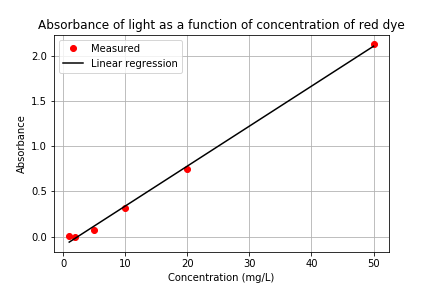
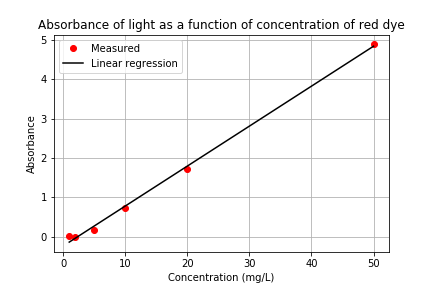
are we done?

diff --git a/Lab1_postlab_group1.md b/Lab1_postlab_group1.md
@@ -1,25 +1,29 @@
 ## Laboratory Measurements and Procedures
 
 1. Fill out the attached spreadsheet. Make sure that all calculated values are entered in the spreadsheet as equations. All remaining analysis for the course will be done in Atom using Python!
+**The spreadsheet is attached in the email.**
 2. Create a graph of absorbance vs. concentration of red dye 40 in Atom/Markdown using the exported data file. Does absorbance increase linearly with concentration of the red dye? Remove data points from the graph that are outside of the linear region.
-
-We removed the data from the high and low concentrations because they were at the limit of the instrument, meaning that the data was
-
+**We removed the data from the very high and low concentrations because they were at the limit of the instrument, meaning that the data was not linear.**
+![absorbanceplot](https://github.com/rosiekrasnoff/CEE4530/blob/master/Lab1_plot.png?raw=true)
+Figure 1: Plot showing absorbance vs concentration of red dye #40 for standards. Data shows the expected linear relationship.
 3. What is the value of the extinction coefficient, ε?
+**ε = 157.58 (at concentration = 10 mg/L and absorbance = 0.732745). The values of ε change for each different concentration and absorbance, the value of ε at 10 mg/L is a fairly good representation of all the values because it is close to the average.**
 4. Did you use interpolation or extrapolation to get the concentration of the unknown?
+**We used interpolation to get the concentration of the unknown because the 14 mg/L was within our data.**
 5. What measurement controls the accuracy of the density measurement for the NaCl solution?
+**Step 1 of the Measuring Density section where we weigh a volumetric flask with 100 mL of the NaCl solution controls the accuracy of the density measurement because a volumetric flask is the least accurate.**
 6. What density did you expect (see prelab 2)?
+**We expected a density of 55.4428 g/L.**
 7. Approximately what should the accuracy be for the density measurement?
+**The accuracy for the density measurement is that of a volumetric flask at 0.16mL/100mL.**
 8. Don’t forget to write a brief paragraph on conclusions and on suggestions using Markdown.
+
 9. Verify that your report and graphs meet the requirements as outlined on the course website.
-
-
-
-
 
 ```python
 from aguaclara.core.units import unit_registry as u
 import numpy as np
+import math
 import matplotlib.pyplot as plt
 import pandas as pd
 from scipy import stats
@@ -39,7 +43,7 @@ dark_V =	-1.307035 * u.V
 blank_V	= 3.563451 * u.V
 
 # Calculate absorbance from voltage
-A = -np.log10((Voltage-dark_V)/(blank_V-dark_V))
+A = -np.log((Voltage-dark_V)/(blank_V-dark_V))
 
 # Linear regression
 slope, intercept, r_value, p_value, std_err = stats.linregress(Conc,A)
@@ -59,28 +63,23 @@ ax.plot(Conc, slope * Conc + intercept, 'k-', )
 
 # Add axis labels using the column labels from the dataframe
 ax.set(xlabel=list(df)[0])
-ax.set(ylabel=list(df)[1])
+ax.set(ylabel='Absorbance')
 ax.legend(['Measured', 'Linear regression'])
 ax.grid(True)
+ax.set(title='Absorbance of light as a function of concentration of red dye')
 
 # Save file
 plt.savefig('/Users/Rosie/github/CEE4530/Lab1_plot')
 plt.show()
 
-
 # Calculate extinction coefficient
-# e = A/bc
+# e = A/(bc)
 b = 0.000000465*u.m # length of simple photometer
-c = Conc*u.mg/u.L
-e = A/b*c*u.mg/u.m*math.exp(2)
+c = Conc*1000 *u.L/u.m**3
+print(*c)
 
-
-
-
-
-
-
-
+e = A/b/c #*u.mg/u.m**2  
+print(e[3])
 
 
 ```
